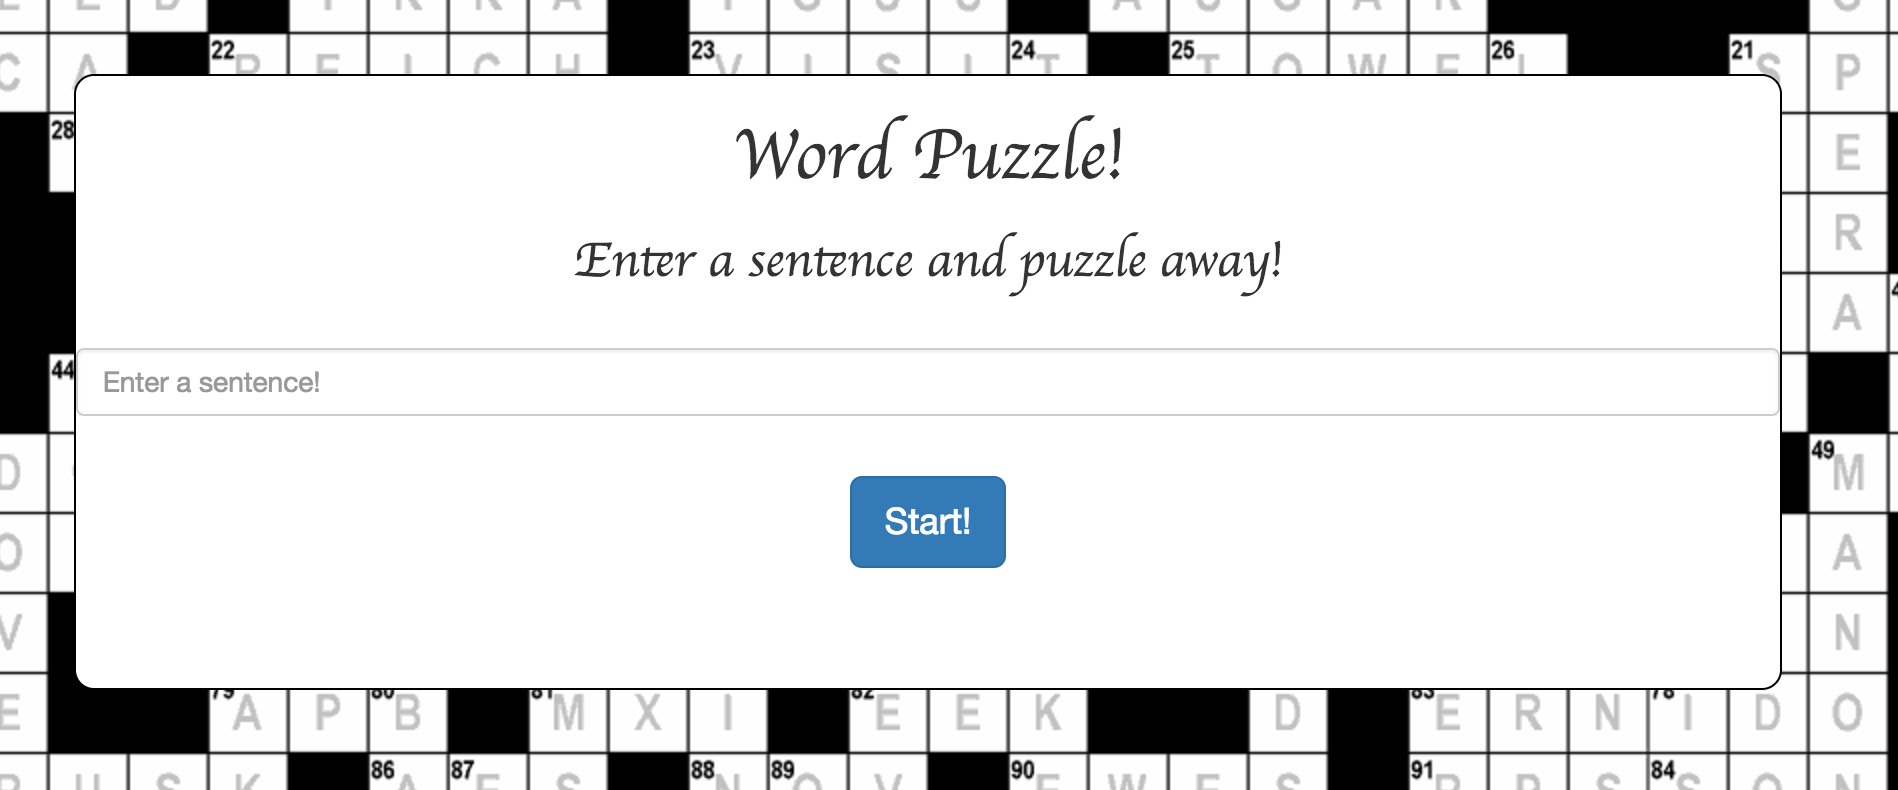
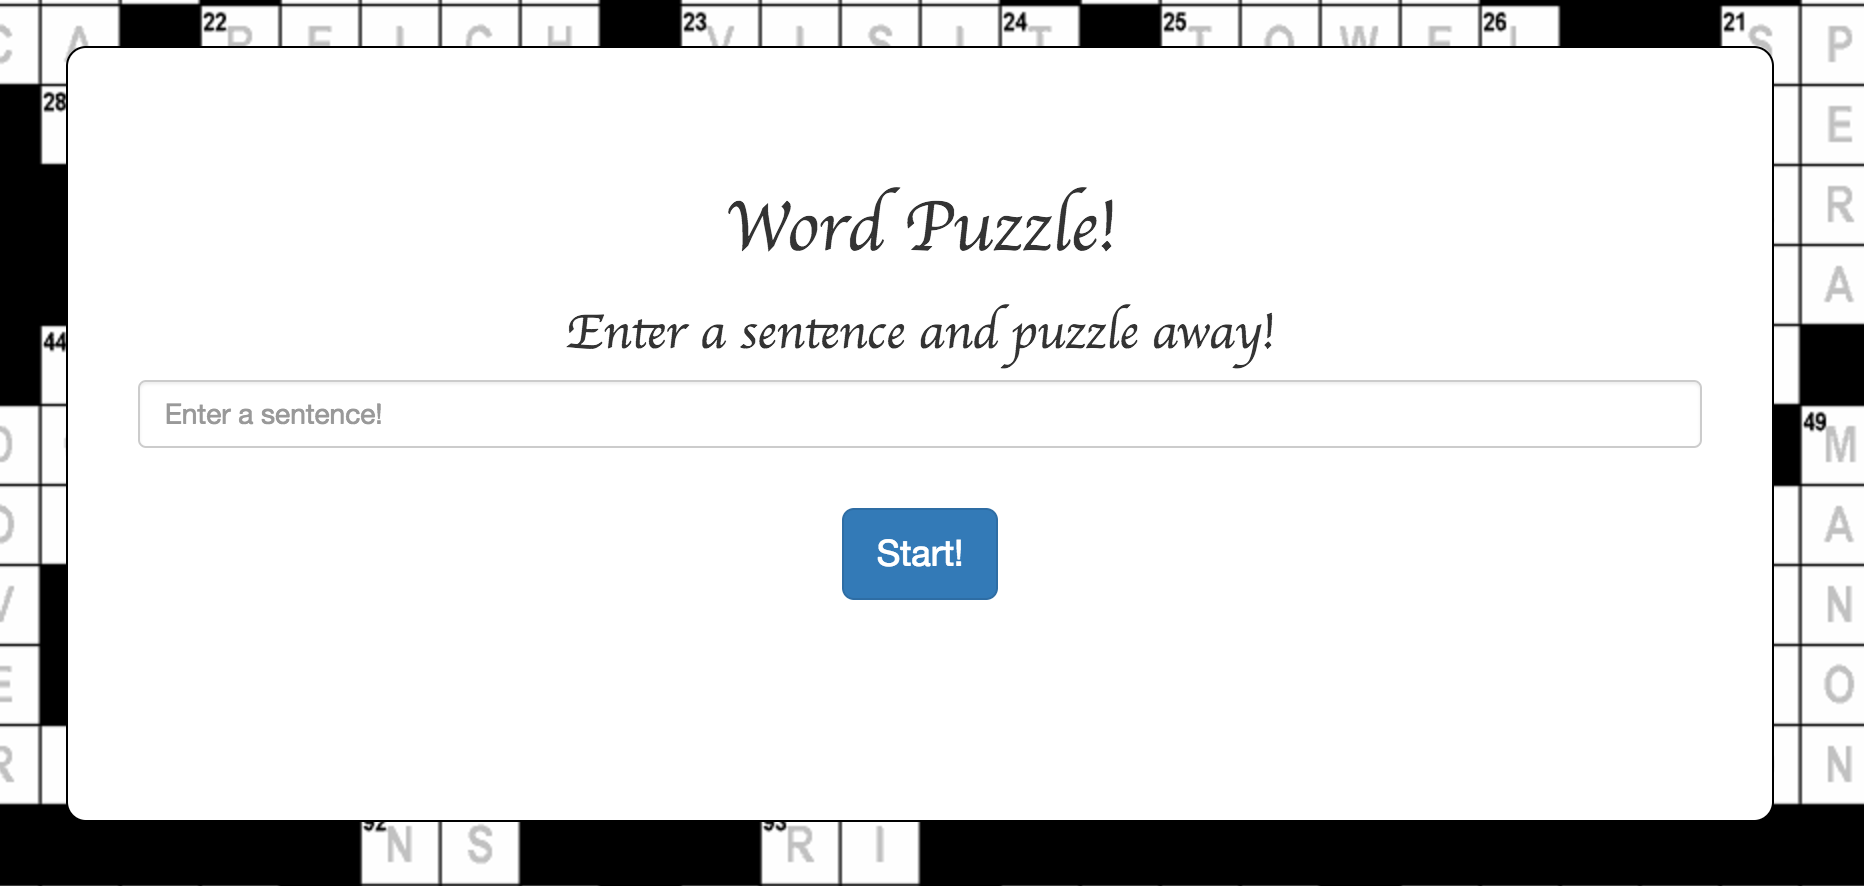
Add styling to input field

Changed region(s): [[0.0, 0.0, 1.0, 1.0], [0.3112, 0.1519, 0.6845, 0.3949], [0.4356, 0.5468, 0.5601, 0.7291]]

diff --git a/index.html b/index.html
@@ -14,7 +14,6 @@
       <h2>Enter a sentence and puzzle away!</h2>
       <form>
         <div class="row">
-          <label for="sentence"></label>
           <input id="sentence" class="form-control" type="text" placeholder="Enter a sentence!">
         </div>
         <div class="row">

diff --git a/css/styles.css b/css/styles.css
@@ -7,6 +7,7 @@ body {
   border-radius: 10px;
   margin-top: 10rem;
   background-color: #fff;
+  padding: 50px;
 }
 h1, h2 {
   font-family: 'Uncial Antiqua', cursive;
